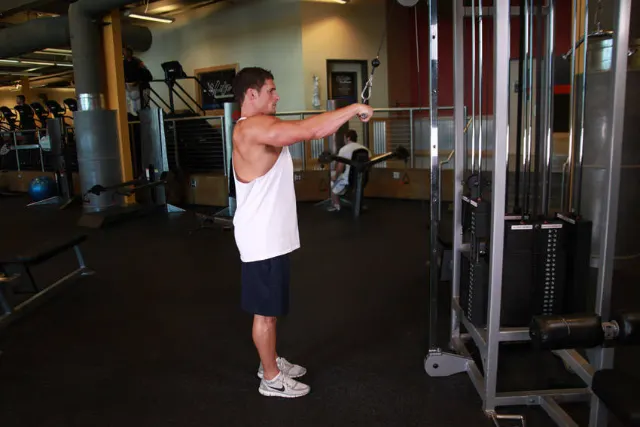
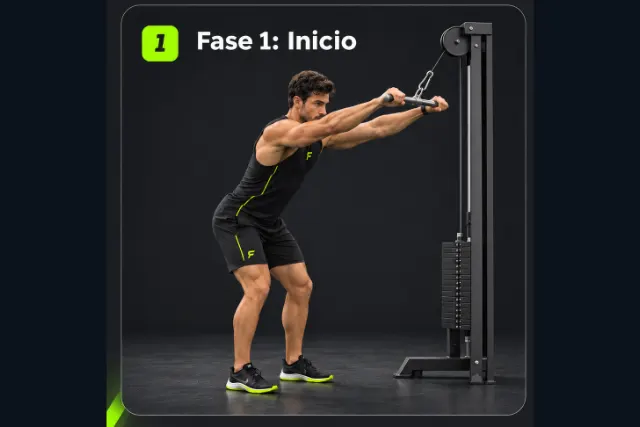
Fix: se corrigue el ejercicio de jalon de brazo recto en polea

diff --git a/src/data/back-visual-assets.js b/src/data/back-visual-assets.js
@@ -16,8 +16,8 @@ const pairs = [
     'Remo unilateral con una mano y una rodilla apoyadas en banco, mancuerna suspendida.',
     'Remo a una mano: mancuerna suspendida y elevada junto al tronco con apoyo en banco.'],
   [34, 'espalda_06_jalon_de_brazos_rectos_en_polea', 'jalon-de-brazos-rectos-en-polea', 'Jalón de brazos rectos en polea', 'Straight-Arm Pulldown',
-    'Jalón de brazos rectos de pie ante una polea, con la barra al frente.',
-    'Jalón de brazos rectos: barra al frente y descendida hacia los muslos.'],
+    'Fase 1: inicio del jalón de brazos rectos, con el tronco inclinado y la barra al frente.',
+    'Jalón de brazos rectos: fase inicial con la barra al frente y fase de jalón hacia los muslos.'],
   [35, 'espalda_07_remo_alto_en_maquina_con_codos_abiertos', 'remo-alto-en-maquina-con-codos-abiertos', 'Remo alto en máquina con codos abiertos', 'Leverage High Row',
     'Remo alto sentado en máquina de palancas, con los brazos elevados hacia los agarres.',
     'Remo alto en máquina: brazos extendidos y agarres acercados al tronco.'],
@@ -41,7 +41,10 @@ const pairs = [
 export const BACK_VISUAL_ASSETS = Object.freeze(pairs.map(([suffix, originalStem, slug, name, sourceName, alt, sequenceAlt]) => Object.freeze({
   id: `c1700000-0000-4000-8000-${String(suffix).padStart(12, '0')}`,
   originalStem, slug, name, sourceName, alt, sequenceAlt,
-  extension: 'jpg', provenance: 'free-exercise-db', posterFrame: 0,
+  extension: suffix === 34 ? 'png' : 'jpg',
+  provenance: suffix === 34 ? 'user-provided' : 'free-exercise-db',
+  ...(suffix === 34 ? { referenceExtension: 'jpg' } : {}),
+  posterFrame: 0,
   match: [38, 40].includes(suffix) ? 'aproximada' : 'exacta',
   note: suffix === 38
     ? 'Correspondencia aproximada: las fotografías muestran una elevación frontal con mancuernas sobre banco inclinado, sin mostrar claramente la apertura en Y. Sigue los pasos del catálogo para formar la Y y empezar sin carga externa.'

diff --git a/tests/back-media.spec.js b/tests/back-media.spec.js
@@ -47,8 +47,13 @@ for (const width of [1536, 390, 320]) {
       await expect(sources).toHaveText('Fuente de las imágenes');
       await sources.focus();
       await page.keyboard.press('Enter');
-      await expect(dialog.getByRole('link', { name: 'Fuente', exact: true })).toHaveAttribute('href', 'https://github.com/yuhonas/free-exercise-db');
-      await expect(dialog.getByRole('link', { name: 'Unlicense', exact: true })).toHaveAttribute('href', 'https://github.com/yuhonas/free-exercise-db/blob/main/LICENSE');
+      if (asset.provenance === 'user-provided') {
+        await expect(dialog.locator('.media-credit')).toContainText('Imágenes proporcionadas para FitTracker');
+        await expect(dialog.getByRole('link', { name: 'Unlicense', exact: true })).toHaveCount(0);
+      } else {
+        await expect(dialog.getByRole('link', { name: 'Fuente', exact: true })).toHaveAttribute('href', 'https://github.com/yuhonas/free-exercise-db');
+        await expect(dialog.getByRole('link', { name: 'Unlicense', exact: true })).toHaveAttribute('href', 'https://github.com/yuhonas/free-exercise-db/blob/main/LICENSE');
+      }
       if (asset.match === 'aproximada') await expect(dialog.locator('.media-description')).toHaveText(asset.note);
       expect(await dialog.evaluate((element) => element.scrollWidth <= element.clientWidth)).toBe(true);
       await page.keyboard.press('Space');

diff --git a/src/data/exercise-media.js b/src/data/exercise-media.js
@@ -64,7 +64,7 @@ export function mediaUrl(path) {
 export function verifiedResource(resource, kind) {
   if (!resource || resource.status !== 'verified' || !resource.checkedAt || !resource.author || !resource.title) return null;
   const provided = resource.provenance === 'user-provided';
-  if (provided && (!['thumbnail', 'animation'].includes(kind) || !/^assets\/exercises\/core\/[a-z0-9-]+\.webp$/.test(resource.src))) return null;
+  if (provided && (!['thumbnail', 'animation'].includes(kind) || !/^assets\/exercises\/(?:core|espalda)\/[a-z0-9-]+\.webp$/.test(resource.src))) return null;
   if (!provided && (!resource.license || !secureLink(resource.sourceUrl) || !secureLink(resource.licenseUrl)
     || (resource.authorUrl && !secureLink(resource.authorUrl)))) return null;
   if (['thumbnail', 'animation'].includes(kind) && (resource.type !== 'image' || !resource.alt || !(resource.width > 0 && resource.height > 0))) return null;

diff --git a/tests/exercise-media.unit.js b/tests/exercise-media.unit.js
@@ -43,7 +43,7 @@ test('Correspondencias locales por ID, fuente y nombres reales; sin medios activ
       const exercise = BASE_EXERCISES.find((item) => item.id === asset.id);
       assert.equal(exercise.name, asset.name);
       const entry = reference.find((item) => item.grupo === groupName && item.nombre === asset.name);
-      if (asset.provenance === 'user-provided') {
+      if (asset.provenance === 'user-provided' && !asset.referenceExtension) {
         assert.equal(entry.coincidencia, 'sin_resultado');
         assert.deepEqual(entry.imagenes, []);
         assert.equal(asset.extension, 'png');

diff --git a/docs/FT-010F.md b/docs/FT-010F.md
@@ -30,7 +30,7 @@ Estas notas solo aparecen al desplegar **«Fuente de las imágenes»** en el mod
 No se cambiaron los pasos técnicos, nombres, IDs, equipamiento, dificultad ni
 clasificaciones anatómicas para adaptarlos a las fotografías.
 
-## Inventario generado
+## Inventario generado en la entrega inicial
 
 Directorio: **`public/assets/exercises/espalda/`**. Cada slug produce
 `<slug>-poster.webp` (estático) y `<slug>.webp` (animado). Los prefijos originales
@@ -167,3 +167,50 @@ catálogo, anatomía, Generador, rutinas, historial, snapshots ni IndexedDB.
 Los originales permanecen fuera de producción. No se accedió a datos reales.
 **Pendiente:** revisión del usuario, en particular las dos referencias
 aproximadas. Sin archivos faltantes; sin avance a Piernas.
+
+## Actualización del par de Jalón de brazos rectos en polea
+
+Se sustituyeron los derivados del ejercicio
+`c1700000-0000-4000-8000-000000000034` por los nuevos originales suministrados:
+`espalda_06_jalon_de_brazos_rectos_en_polea_0.png` (972 × 972) y
+`espalda_06_jalon_de_brazos_rectos_en_polea_1.png` (953 × 997), que suman
+**2.449.112 bytes**. Se inspeccionaron ambos: muestran la fase inicial con
+brazos al frente y el jalón hacia los muslos. Los JPG anteriores fueron
+retirados por el usuario; el JSON original conserva su referencia histórica.
+
+El mapeo de Espalda usa ahora PNG para este par y declara su procedencia como
+**imágenes proporcionadas para FitTracker**, sin atribuirlas a free-exercise-db
+ni asignarles Unlicense. Los créditos permanecen dentro del control del modal.
+El campo `referenceExtension` conserva la validación contra los JPG del JSON
+histórico, mientras que la preparación lee exclusivamente los PNG actuales.
+Se permite el par aportado con dimensiones distintas: cada imagen se ajusta
+independientemente al lienzo 640 × 427, completa y sin deformación, con bandas
+carbón. Los pares de terceros siguen requiriendo dimensiones iguales.
+
+```powershell
+pnpm.cmd prepare:exercise-assets --group=espalda --only=jalon-de-brazos-rectos-en-polea
+```
+
+Se conservan el ID y las rutas públicas:
+
+- `jalon-de-brazos-rectos-en-polea-poster.webp`: **10.834 bytes**, imagen inicial.
+- `jalon-de-brazos-rectos-en-polea.webp`: **20.220 bytes**, dos fotogramas de
+  900 ms en bucle, calidad 0.78; sin audio ni interpolación.
+
+Ambos suman **31.054 bytes**. El total actual de Espalda es **853.010 bytes**:
+285.918 bytes de miniaturas y 567.092 de animaciones. La atribución distribuida
+contiene los nuevos originales, dimensiones, procedencia y hashes.
+Se compararon todos los archivos multimedia anteriores: **solo cambiaron los
+dos WebP del jalón y la atribución de Espalda**; los otros **72 archivos**
+permanecen idénticos, incluidos los otros 22 WebP de Espalda y Core/Pecho.
+
+Validación focalizada: preparación y decodificación correctas, **5 pruebas
+unitarias aprobadas**, build de producción correcto y comprobación en Edge
+bajo `/FitTracker/` a **1536 y 390 px**. Se verificaron la miniatura de tarjeta,
+el modal inicialmente estático, créditos, descarga manual de la secuencia,
+cambio visible de fotograma, detención con retirada del recurso y ausencia de
+desbordamiento. Capturas revisadas en `.cache/ft010f/png-jalon-*.png`, ignoradas
+por Git. No se ejecutaron nuevamente suites de otros grupos.
+
+Sin cambios en ejercicios, anatomía, rutinas, historial ni IndexedDB.
+Sin commit, push, despliegue ni avance a Piernas.

diff --git a/public/assets/exercises/espalda/ATTRIBUTION.md b/public/assets/exercises/espalda/ATTRIBUTION.md
@@ -1,13 +1,14 @@
 # FitTracker — recursos visuales locales de Espalda
 
-Fuente de los doce pares JPG: **free-exercise-db**, https://github.com/yuhonas/free-exercise-db.
-Licencia declarada en `recursos-originales/LICENCIA.txt`: **dominio público (Unlicense)**.
+Fuente de los once pares JPG: **free-exercise-db**, https://github.com/yuhonas/free-exercise-db.
+Licencia de esos JPG declarada en `recursos-originales/LICENCIA.txt`: **dominio público (Unlicense)**.
+El par PNG de Jalón de brazos rectos en polea fue proporcionado para FitTracker; no se atribuye a free-exercise-db ni se le asigna Unlicense.
 Licencia de la fuente: https://github.com/yuhonas/free-exercise-db/blob/main/LICENSE.
 Correspondencias: `recursos-originales/ejercicios.json` (nombre real, en plural).
 
 Preparación: `pnpm prepare:exercise-assets --group=espalda`, sin red ni dependencias nuevas.
 Originales intactos y excluidos del build. Core, Pecho y sus atribuciones se conservan sin cambios.
-Salida: 640 × 427, calidad WebP 0.78, encuadre completo sin recorte.
+Salida: 640 × 427, calidad WebP 0.78, encuadre completo sin recorte; ajuste proporcional con bandas carbón cuando corresponde.
 Miniatura: fotografía 0. Animación: dos fotogramas de 900 ms en bucle 0 → 1 → 0; sin audio ni interpolación.
 Diez correspondencias exactas y dos aproximadas (elevación en Y y elevación corta de tronco), indicadas en sus secciones.
 Los doce ejercicios conservan SVG como respaldo de carga.
@@ -59,12 +60,14 @@ Referencia: **One-Arm Dumbbell Row**, coincidencia **exacta**.
 
 ## Jalón de brazos rectos en polea — c1700000-0000-4000-8000-000000000034
 
-Originales: `espalda_06_jalon_de_brazos_rectos_en_polea_0.jpg` y `espalda_06_jalon_de_brazos_rectos_en_polea_1.jpg` (850 × 567; 133283 bytes entre ambos).
+Originales: `espalda_06_jalon_de_brazos_rectos_en_polea_0.png` y `espalda_06_jalon_de_brazos_rectos_en_polea_1.png` (972 × 972 y 953 × 997; 2449112 bytes entre ambos).
 Referencia: **Straight-Arm Pulldown**, coincidencia **exacta**.
 
 
[2 lines of base64/hex data omitted]
+Procedencia: imágenes proporcionadas por el usuario para incorporarlas a FitTracker. No se atribuyen a free-exercise-db ni se les asigna Unlicense. La referencia anterior del JSON corresponde a los JPG sustituidos; el par PNG actual se documenta en `src/data/back-visual-assets.js`.
+
[2 lines of base64/hex data omitted]
 
 ## Remo alto en máquina con codos abiertos — c1700000-0000-4000-8000-000000000035
 
